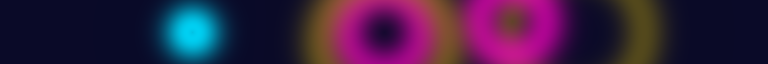
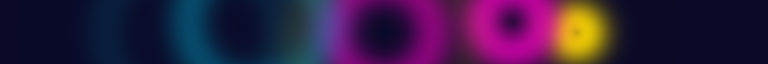
Regenerate screenshots at 30s into each effect

diff --git a/scripts/capture_effects.py b/scripts/capture_effects.py
@@ -9,7 +9,7 @@ from wideboy.backgrounds.procedural import EFFECTS, ProceduralBackground
 
 W, H = 768, 64
 FPS = 30
-DURATION = 2.0
+DURATION = 30.0
 OUT_DIR = Path(__file__).resolve().parent.parent / "docs" / "screenshots"
 
 
